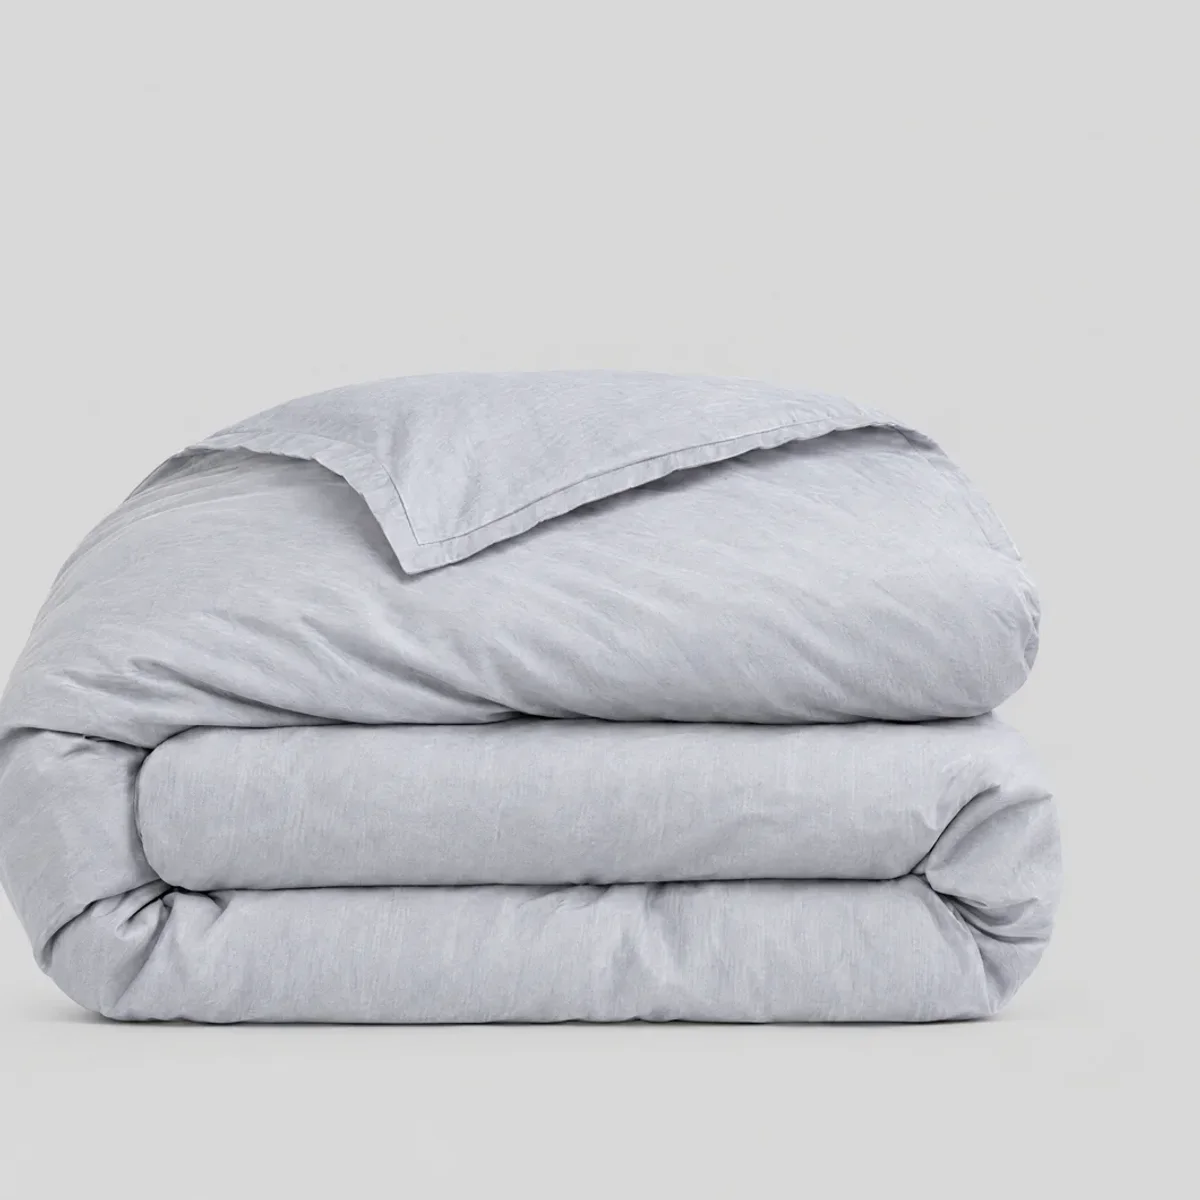
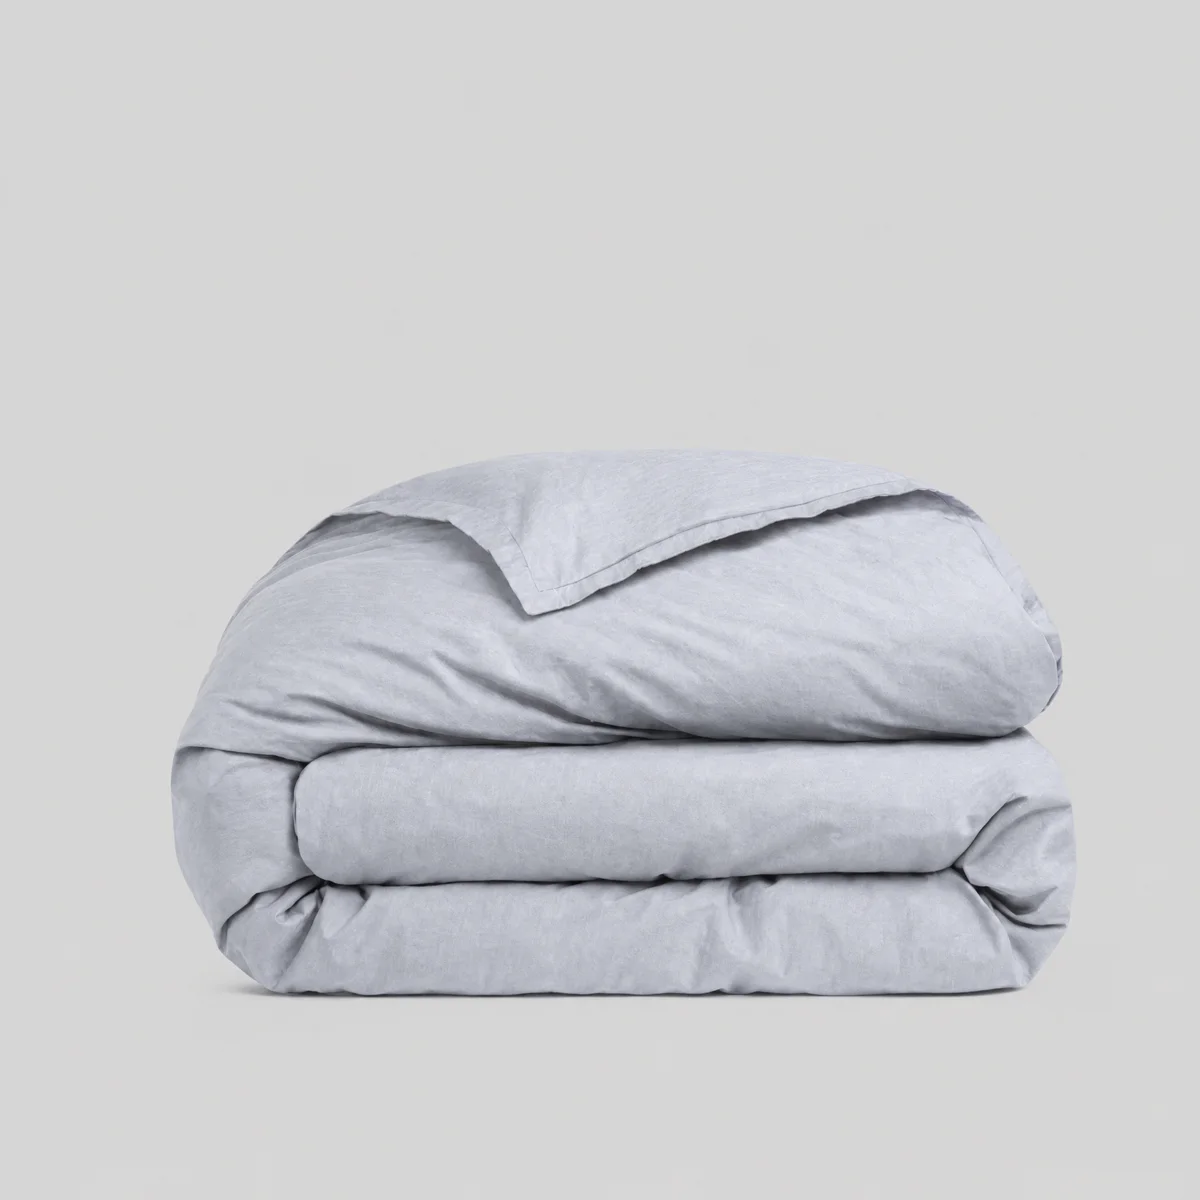
补生成 DUVSET gray/pink/white 叠放主图并打满边框（2026-10-15）

Changed region(s): [[0.0, 0.3083, 0.8942, 0.8633]]

diff --git a/src/data/materials-map.ts b/src/data/materials-map.ts
@@ -345,10 +345,10 @@ export const MATERIALS_MAP: Record<string, MaterialsEntry> = {
   "1688-913882303732-c4": {"title":"Memory Foam Travel Neck Pillow with Egg Shaped Storage Case Reversible Washable Cover Adjustable U Shaped Cervical Support Pillow for Airplane Nap 23 x 23 x 12 cm (Pink)","bullets":"ERGONOMIC MEMORY FOAM SUPPORT: High-density slow-rebound memory foam cradles your neck and head to ease pressure on long trips and naps, with a reversible two-sided design for personalized comfort.\n\nADJUSTABLE SLIDING CORD FIT: Press the unlock buckle and slide to fine-tune tightness in seconds - one size comfortably fits different neck sizes without pinching or slipping.\n\nROLLS INTO AN EGG-SHAPED CASE: The pillow rolls up and zips into the included compact egg-shaped storage case (about 16 x 16 x 14 cm, 0.95 lb) with a carry strap that clips to your backpack or luggage.\n\nREMOVABLE, WASHABLE COVER: Skin-friendly breathable knit cover with a hidden zipper removes in seconds - machine wash cold (30 C) and hang dry; memory foam core is spot-clean only.\n\nTRAVEL-READY EVERYWHERE: Lightweight 250 g (8.8 oz) U-shaped pillow for airplanes, trains, cars, office desks and home reading - a practical gift for commuters and frequent flyers.","sku":"US-QD9KZT","images":["/images/products/1688-913882303732-c4/1.webp", "/images/products/1688-913882303732-c4/2.webp", "/images/products/1688-913882303732-c4/3.webp", "/images/products/1688-913882303732-c4/4.webp", "/images/products/1688-913882303732-c4/5.webp", "/images/products/1688-913882303732-c4/6.webp"],"whiteBg":[false,false,false,false,false,false]},
   "1688-913882303732-c5": {"title":"Lightweight Memory Foam U-Shaped Neck Pillow for Travel Airplane Nap Cervical Support Reversible Adjustable Washable Cover with Egg Storage Case 23 x 23 x 12 cm (Obsidian Grey)","bullets":"ERGONOMIC MEMORY FOAM SUPPORT: High-density slow-rebound memory foam cradles your neck and head to ease pressure on long trips and naps, with a reversible two-sided design for personalized comfort.\n\nADJUSTABLE SLIDING CORD FIT: Press the unlock buckle and slide to fine-tune tightness in seconds - one size comfortably fits different neck sizes without pinching or slipping.\n\nROLLS INTO AN EGG-SHAPED CASE: The pillow rolls up and zips into the included compact egg-shaped storage case (about 16 x 16 x 14 cm, 0.95 lb) with a carry strap that clips to your backpack or luggage.\n\nREMOVABLE, WASHABLE COVER: Skin-friendly breathable knit cover with a hidden zipper removes in seconds - machine wash cold (30 C) and hang dry; memory foam core is spot-clean only.\n\nTRAVEL-READY EVERYWHERE: Lightweight 250 g (8.8 oz) U-shaped pillow for airplanes, trains, cars, office desks and home reading - a practical gift for commuters and frequent flyers.","sku":"US-Y315JC","images":["/images/products/1688-913882303732-c5/1.webp", "/images/products/1688-913882303732-c5/2.webp", "/images/products/1688-913882303732-c5/3.webp", "/images/products/1688-913882303732-c5/4.webp", "/images/products/1688-913882303732-c5/5.webp", "/images/products/1688-913882303732-c5/6.webp"],"whiteBg":[false,false,false,false,false,false]},
   "1688-913882303732-c6": {"title":"Memory Foam U-Shaped Travel Neck Pillow with Egg Storage Case, Portable Adjustable Cervical Support for Airplane Nap Sleeping and Rest, 23 x 23 x 12 cm (Ivory White)","bullets":"ERGONOMIC MEMORY FOAM SUPPORT: High-density slow-rebound memory foam cradles your neck and head to ease pressure on long trips and naps, with a reversible two-sided design for personalized comfort.\n\nADJUSTABLE SLIDING CORD FIT: Press the unlock buckle and slide to fine-tune tightness in seconds - one size comfortably fits different neck sizes without pinching or slipping.\n\nROLLS INTO AN EGG-SHAPED CASE: The pillow rolls up and zips into the included compact egg-shaped storage case (about 16 x 16 x 14 cm, 0.95 lb) with a carry strap that clips to your backpack or luggage.\n\nREMOVABLE, WASHABLE COVER: Skin-friendly breathable knit cover with a hidden zipper removes in seconds - machine wash cold (30 C) and hang dry; memory foam core is spot-clean only.\n\nTRAVEL-READY EVERYWHERE: Lightweight 250 g (8.8 oz) U-shaped pillow for airplanes, trains, cars, office desks and home reading - a practical gift for commuters and frequent flyers.","sku":"US-KSMLJC","images":["/images/products/1688-913882303732-c6/1.webp", "/images/products/1688-913882303732-c6/2.webp", "/images/products/1688-913882303732-c6/3.webp", "/images/products/1688-913882303732-c6/4.webp", "/images/products/1688-913882303732-c6/5.webp", "/images/products/1688-913882303732-c6/6.webp"],"whiteBg":[false,false,false,false,false,false]},
-  "duvset-gray-duvet": {"title":"Soft Washed Cotton-Like Duvet Cover Breathable Lightweight Solid Color Bedding Cover With Zipper Closure For Bedroom Guest Room Easy Care (Grey)","bullets":"STANDALONE DUVET COVER: One duvet cover only, comforter not included. Slip it over your duvet to instantly refresh the bedroom.\n\nSOFT WASHED COTTON-LIKE FABRIC: Garment-washed for a naturally soft, breathable feel with a relaxed, slightly wrinkled texture that is gentle on skin and promotes airflow for year-round comfort.\n\nCALM NEUTRAL GREY STYLE: An easy-going grey that grounds the room, pairing well with white, beige, navy and wood tones, fitting modern, minimalist, farmhouse and Scandinavian rooms.\n\nSECURE FIT DESIGN: Hidden zipper closure plus interior corner ties keep the duvet insert from shifting through the night.\n\nEASY CARE MACHINE WASHABLE: Machine wash cold, tumble dry low. The wrinkle-resistant washed finish keeps the cover looking fresh with minimal effort.","sku":"DUVSET-GRAY-DUVET","images":["/images/products/DUVSET-GRAY-DUVET/1.webp","/images/products/DUVSET-GRAY-DUVET/2.webp","/images/products/DUVSET-GRAY-DUVET/3.webp","/images/products/DUVSET-GRAY-DUVET/4.webp","/images/products/DUVSET-GRAY-DUVET/5.webp","/images/products/DUVSET-GRAY-DUVET/6.webp"],"whiteBg":[true,false,false,false,false,true]},
-  "duvset-pink-duvet": {"title":"Soft Washed Cotton-Like Duvet Cover Breathable Lightweight Solid Color Bedding Cover With Zipper Closure For Bedroom Guest Room Easy Care (Pink)","bullets":"STANDALONE DUVET COVER: One duvet cover only, comforter not included. Slip it over your duvet to instantly refresh the bedroom.\n\nSOFT WASHED COTTON-LIKE FABRIC: Garment-washed for a naturally soft, breathable feel with a relaxed, slightly wrinkled texture that is gentle on skin and promotes airflow for year-round comfort.\n\nGENTLE BLUSH PINK STYLE: A soft, muted pink that adds quiet warmth, pairing well with white, cream, grey and gold accents, fitting cottage, shabby chic, boho and modern rooms.\n\nSECURE FIT DESIGN: Hidden zipper closure plus interior corner ties keep the duvet insert from shifting through the night.\n\nEASY CARE MACHINE WASHABLE: Machine wash cold, tumble dry low. The wrinkle-resistant washed finish keeps the cover looking fresh with minimal effort.","sku":"DUVSET-PINK-DUVET","images":["/images/products/DUVSET-PINK-DUVET/1.webp","/images/products/DUVSET-PINK-DUVET/2.webp","/images/products/DUVSET-PINK-DUVET/3.webp","/images/products/DUVSET-PINK-DUVET/4.webp","/images/products/DUVSET-PINK-DUVET/5.webp","/images/products/DUVSET-PINK-DUVET/6.webp"],"whiteBg":[true,false,false,false,false,true]},
+  "duvset-gray-duvet": {"title":"Soft Washed Cotton-Like Duvet Cover Breathable Lightweight Solid Color Bedding Cover With Zipper Closure For Bedroom Guest Room Easy Care (Grey)","bullets":"STANDALONE DUVET COVER: One duvet cover only, comforter not included. Slip it over your duvet to instantly refresh the bedroom.\n\nSOFT WASHED COTTON-LIKE FABRIC: Garment-washed for a naturally soft, breathable feel with a relaxed, slightly wrinkled texture that is gentle on skin and promotes airflow for year-round comfort.\n\nCALM NEUTRAL GREY STYLE: An easy-going grey that grounds the room, pairing well with white, beige, navy and wood tones, fitting modern, minimalist, farmhouse and Scandinavian rooms.\n\nSECURE FIT DESIGN: Hidden zipper closure plus interior corner ties keep the duvet insert from shifting through the night.\n\nEASY CARE MACHINE WASHABLE: Machine wash cold, tumble dry low. The wrinkle-resistant washed finish keeps the cover looking fresh with minimal effort.","sku":"DUVSET-GRAY-DUVET","images":["/images/products/DUVSET-GRAY-DUVET/1.webp","/images/products/DUVSET-GRAY-DUVET/2.webp","/images/products/DUVSET-GRAY-DUVET/3.webp","/images/products/DUVSET-GRAY-DUVET/4.webp","/images/products/DUVSET-GRAY-DUVET/5.webp","/images/products/DUVSET-GRAY-DUVET/6.webp"],"whiteBg":[false,false,false,false,false,true]},
+  "duvset-pink-duvet": {"title":"Soft Washed Cotton-Like Duvet Cover Breathable Lightweight Solid Color Bedding Cover With Zipper Closure For Bedroom Guest Room Easy Care (Pink)","bullets":"STANDALONE DUVET COVER: One duvet cover only, comforter not included. Slip it over your duvet to instantly refresh the bedroom.\n\nSOFT WASHED COTTON-LIKE FABRIC: Garment-washed for a naturally soft, breathable feel with a relaxed, slightly wrinkled texture that is gentle on skin and promotes airflow for year-round comfort.\n\nGENTLE BLUSH PINK STYLE: A soft, muted pink that adds quiet warmth, pairing well with white, cream, grey and gold accents, fitting cottage, shabby chic, boho and modern rooms.\n\nSECURE FIT DESIGN: Hidden zipper closure plus interior corner ties keep the duvet insert from shifting through the night.\n\nEASY CARE MACHINE WASHABLE: Machine wash cold, tumble dry low. The wrinkle-resistant washed finish keeps the cover looking fresh with minimal effort.","sku":"DUVSET-PINK-DUVET","images":["/images/products/DUVSET-PINK-DUVET/1.webp","/images/products/DUVSET-PINK-DUVET/2.webp","/images/products/DUVSET-PINK-DUVET/3.webp","/images/products/DUVSET-PINK-DUVET/4.webp","/images/products/DUVSET-PINK-DUVET/5.webp","/images/products/DUVSET-PINK-DUVET/6.webp"],"whiteBg":[false,false,false,false,false,true]},
   "duvset-beige-duvet": {"title":"Soft Washed Cotton-Like Duvet Cover Breathable Lightweight Solid Color Bedding Cover With Zipper Closure For Bedroom Guest Room Easy Care (Beige)","bullets":"STANDALONE DUVET COVER: One duvet cover only, comforter not included. Slip it over your duvet to instantly refresh the bedroom.\n\nSOFT WASHED COTTON-LIKE FABRIC: Garment-washed for a naturally soft, breathable feel with a relaxed, slightly wrinkled texture that is gentle on skin and promotes airflow for year-round comfort.\n\nWARM BEIGE STYLE: A cozy adaptable neutral that brightens the bed, pairing well with white, brown, terracotta and green, fitting farmhouse, rustic, boho and minimalist rooms.\n\nSECURE FIT DESIGN: Hidden zipper closure plus interior corner ties keep the duvet insert from shifting through the night.\n\nEASY CARE MACHINE WASHABLE: Machine wash cold, tumble dry low. The wrinkle-resistant washed finish keeps the cover looking fresh with minimal effort.","sku":"DUVSET-BEIGE-DUVET","images":["/images/products/DUVSET-BEIGE-DUVET/1.webp","/images/products/DUVSET-BEIGE-DUVET/2.webp","/images/products/DUVSET-BEIGE-DUVET/3.webp","/images/products/DUVSET-BEIGE-DUVET/4.webp","/images/products/DUVSET-BEIGE-DUVET/5.webp","/images/products/DUVSET-BEIGE-DUVET/6.webp"],"whiteBg":[false,false,false,false,false,true]},
-  "duvset-white-duvet": {"title":"Soft Washed Cotton-Like Duvet Cover Breathable Lightweight Solid Color Bedding Cover With Zipper Closure For Bedroom Guest Room Easy Care (White)","bullets":"STANDALONE DUVET COVER: One duvet cover only, comforter not included. Slip it over your duvet to instantly refresh the bedroom.\n\nSOFT WASHED COTTON-LIKE FABRIC: Garment-washed for a naturally soft, breathable feel with a relaxed, slightly wrinkled texture that is gentle on skin and promotes airflow for year-round comfort.\n\nCRISP PURE WHITE STYLE: A clean airy white that suits any space, pairing well with every color palette and bedding layer, fitting modern, classic, coastal and minimalist rooms.\n\nSECURE FIT DESIGN: Hidden zipper closure plus interior corner ties keep the duvet insert from shifting through the night.\n\nEASY CARE MACHINE WASHABLE: Machine wash cold, tumble dry low. The wrinkle-resistant washed finish keeps the cover looking fresh with minimal effort.","sku":"DUVSET-WHITE-DUVET","images":["/images/products/DUVSET-WHITE-DUVET/1.webp","/images/products/DUVSET-WHITE-DUVET/2.webp","/images/products/DUVSET-WHITE-DUVET/3.webp","/images/products/DUVSET-WHITE-DUVET/4.webp","/images/products/DUVSET-WHITE-DUVET/5.webp","/images/products/DUVSET-WHITE-DUVET/6.webp"],"whiteBg":[true,false,false,false,false,true]},
+  "duvset-white-duvet": {"title":"Soft Washed Cotton-Like Duvet Cover Breathable Lightweight Solid Color Bedding Cover With Zipper Closure For Bedroom Guest Room Easy Care (White)","bullets":"STANDALONE DUVET COVER: One duvet cover only, comforter not included. Slip it over your duvet to instantly refresh the bedroom.\n\nSOFT WASHED COTTON-LIKE FABRIC: Garment-washed for a naturally soft, breathable feel with a relaxed, slightly wrinkled texture that is gentle on skin and promotes airflow for year-round comfort.\n\nCRISP PURE WHITE STYLE: A clean airy white that suits any space, pairing well with every color palette and bedding layer, fitting modern, classic, coastal and minimalist rooms.\n\nSECURE FIT DESIGN: Hidden zipper closure plus interior corner ties keep the duvet insert from shifting through the night.\n\nEASY CARE MACHINE WASHABLE: Machine wash cold, tumble dry low. The wrinkle-resistant washed finish keeps the cover looking fresh with minimal effort.","sku":"DUVSET-WHITE-DUVET","images":["/images/products/DUVSET-WHITE-DUVET/1.webp","/images/products/DUVSET-WHITE-DUVET/2.webp","/images/products/DUVSET-WHITE-DUVET/3.webp","/images/products/DUVSET-WHITE-DUVET/4.webp","/images/products/DUVSET-WHITE-DUVET/5.webp","/images/products/DUVSET-WHITE-DUVET/6.webp"],"whiteBg":[false,false,false,false,false,true]},
   "mk-pc-cord-caramel": {"title":"Makimoo Corduroy Throw Pillow Covers Set of 2, Soft Ribbed Square Cushion Cases for Sofa Couch Bed, 40 x 40 cm (Caramel)","bullets":"Set of 2 Corduroy Covers: You receive two matching 40 x 40 cm throw pillow covers in Caramel, ready to refresh your sofa, couch or bed.\n\nSoft Ribbed Corduroy: The fine-wale corduroy fabric has a velvety matte texture with subtle vertical stripes, adding cozy depth to any space.\n\nMuted Ins-Style Color: A low-saturation Caramel tone that layers beautifully with neutrals like cream, beige and warm brown.\n\nHidden Zipper Closure: A smooth concealed zipper keeps the look clean and makes the covers easy to remove for washing.\n\nEasy Care: Machine washable on a gentle cycle; the durable fabric keeps its texture and color wash after wash. Inserts not included.","sku":"US-QHZREJ","images":["/images/products/MK-PC-CORD-CARAMEL/1.webp","/images/products/MK-PC-CORD-CARAMEL/2.webp","/images/products/MK-PC-CORD-CARAMEL/3.webp"],"whiteBg":[false,false,false]},
   "mk-pc-cord-caramel-45": {"title":"Makimoo Corduroy Throw Pillow Covers Set of 2, Soft Ribbed Square Cushion Cases for Sofa Couch Bed, 45 x 45 cm (Caramel)","bullets":"Set of 2 Corduroy Covers: You receive two matching 45 x 45 cm throw pillow covers in Caramel, ready to refresh your sofa, couch or bed.\n\nSoft Ribbed Corduroy: The fine-wale corduroy fabric has a velvety matte texture with subtle vertical stripes, adding cozy depth to any space.\n\nMuted Ins-Style Color: A low-saturation Caramel tone that layers beautifully with neutrals like cream, beige and warm brown.\n\nHidden Zipper Closure: A smooth concealed zipper keeps the look clean and makes the covers easy to remove for washing.\n\nEasy Care: Machine washable on a gentle cycle; the durable fabric keeps its texture and color wash after wash. Inserts not included.","sku":"US-TETRXU","images":["/images/products/MK-PC-CORD-CARAMEL-45/1.webp","/images/products/MK-PC-CORD-CARAMEL-45/2.webp","/images/products/MK-PC-CORD-CARAMEL-45/3.webp"],"whiteBg":[false,false,false]},
   "mk-pc-cord-dustyrose": {"title":"Makimoo Corduroy Throw Pillow Covers Set of 2, Soft Ribbed Square Cushion Cases for Sofa Couch Bed, 40 x 40 cm (Dusty Rose)","bullets":"Set of 2 Corduroy Covers: You receive two matching 40 x 40 cm throw pillow covers in Dusty Rose, ready to refresh your sofa, couch or bed.\n\nSoft Ribbed Corduroy: The fine-wale corduroy fabric has a velvety matte texture with subtle vertical stripes, adding cozy depth to any space.\n\nMuted Ins-Style Color: A low-saturation Dusty Rose tone that layers beautifully with neutrals like cream, beige and warm brown.\n\nHidden Zipper Closure: A smooth concealed zipper keeps the look clean and makes the covers easy to remove for washing.\n\nEasy Care: Machine washable on a gentle cycle; the durable fabric keeps its texture and color wash after wash. Inserts not included.","sku":"US-5P1JWN","images":["/images/products/MK-PC-CORD-DUSTYROSE/1.webp","/images/products/MK-PC-CORD-DUSTYROSE/2.webp","/images/products/MK-PC-CORD-DUSTYROSE/3.webp"],"whiteBg":[false,false,false]},
